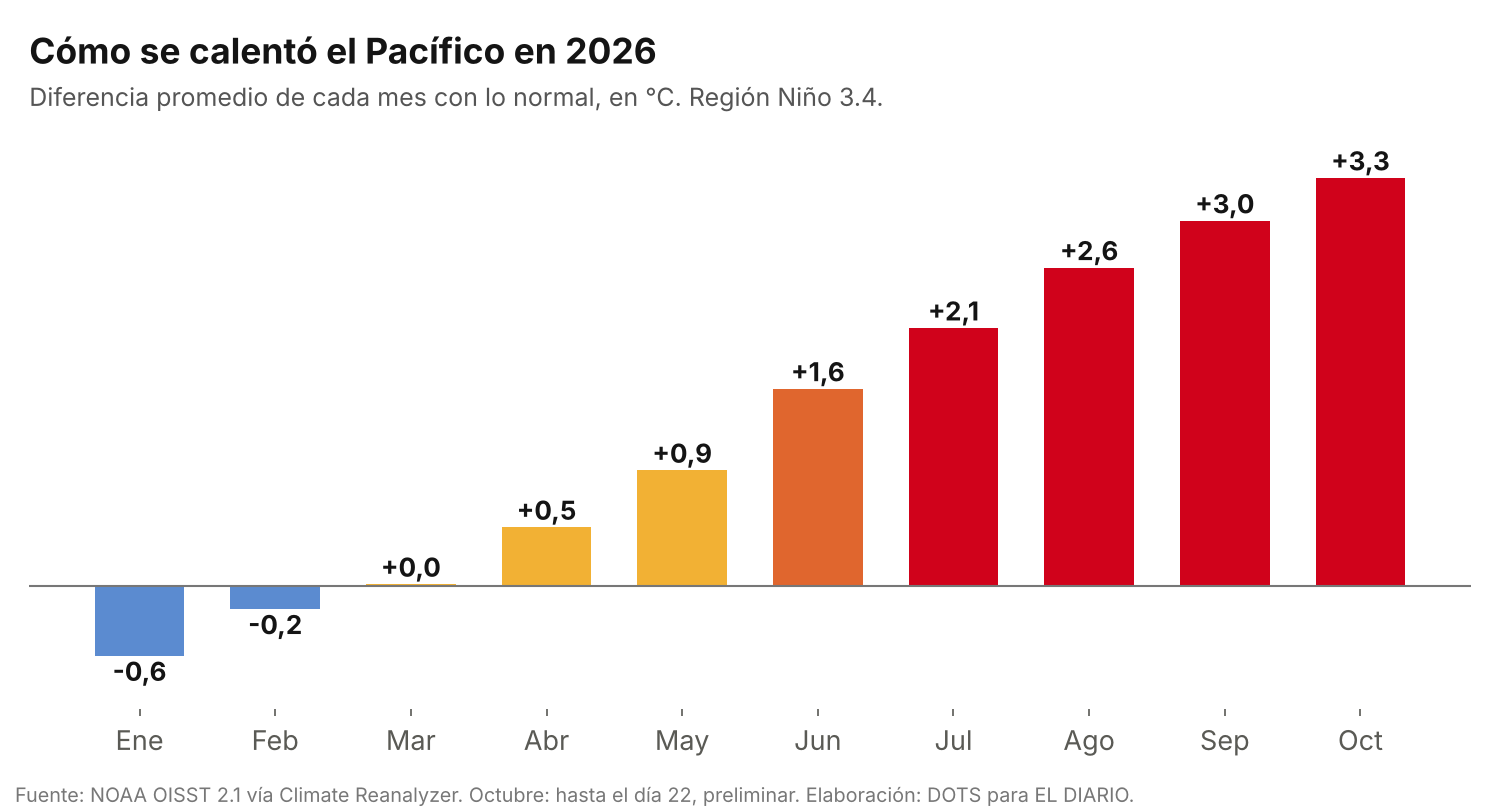
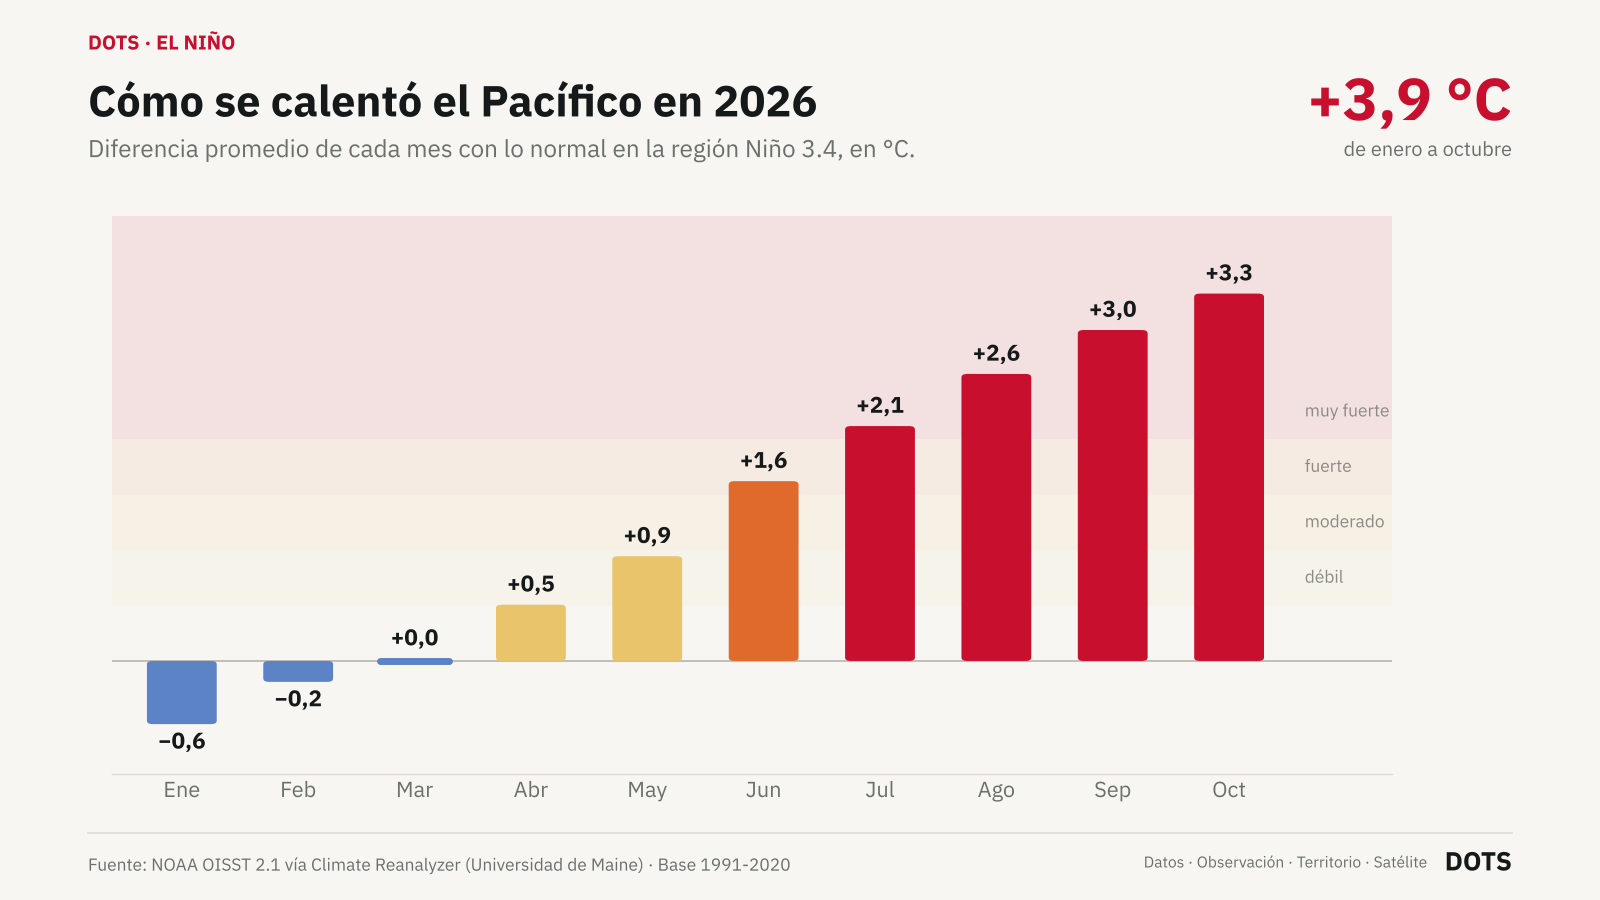
Nota El Niño: gráficos con el diseño premium de DOTS
Claude-Session: https://claude.ai/code/session_017PSJBaAHSMGaXsEUyLfmQ4

diff --git a/src/content/articulos/el-pacifico-mas-caliente-que-nunca-super-nino-2026.md b/src/content/articulos/el-pacifico-mas-caliente-que-nunca-super-nino-2026.md
@@ -34,7 +34,7 @@ Para saber si un día es "normal", se compara cada día con el promedio de ese m
 
 Los tres grandes Niño que dejaron marca en la Argentina fueron los de 1982-83, 1997-98 y 2015-16. Los tres trajeron crecidas históricas en el Litoral. Ninguno llegó tan alto como este.
 
-![Gráfico de barras: calentamiento máximo diario de la región Niño 3.4 en cada gran El Niño. 1982-83: +2,8 °C; 1997-98: +2,5 °C; 2015-16: +3,0 °C; 2023-24: +2,2 °C; 2026: +3,5 °C](/images/nino-2026-records.png)
+![Gráfico de barras: calentamiento máximo diario de la región Niño 3.4 en cada gran El Niño. 1982-83: +2,8 °C en diciembre de 1982; 1997-98: +2,5 °C en febrero de 1998; 2015-16: +3,0 °C en noviembre de 2015; 2023-24: +2,2 °C en enero de 2024; 2026: +3,5 °C en octubre, y sigue subiendo](/images/nino-2026-records.png)
 
 Hay un dato que agrava el cuadro: los Niño anteriores alcanzaron su punto máximo entre noviembre y diciembre. El de 2026 ya superó a todos en octubre, y los pronósticos indican que sigue creciendo hasta fin de año.
 
